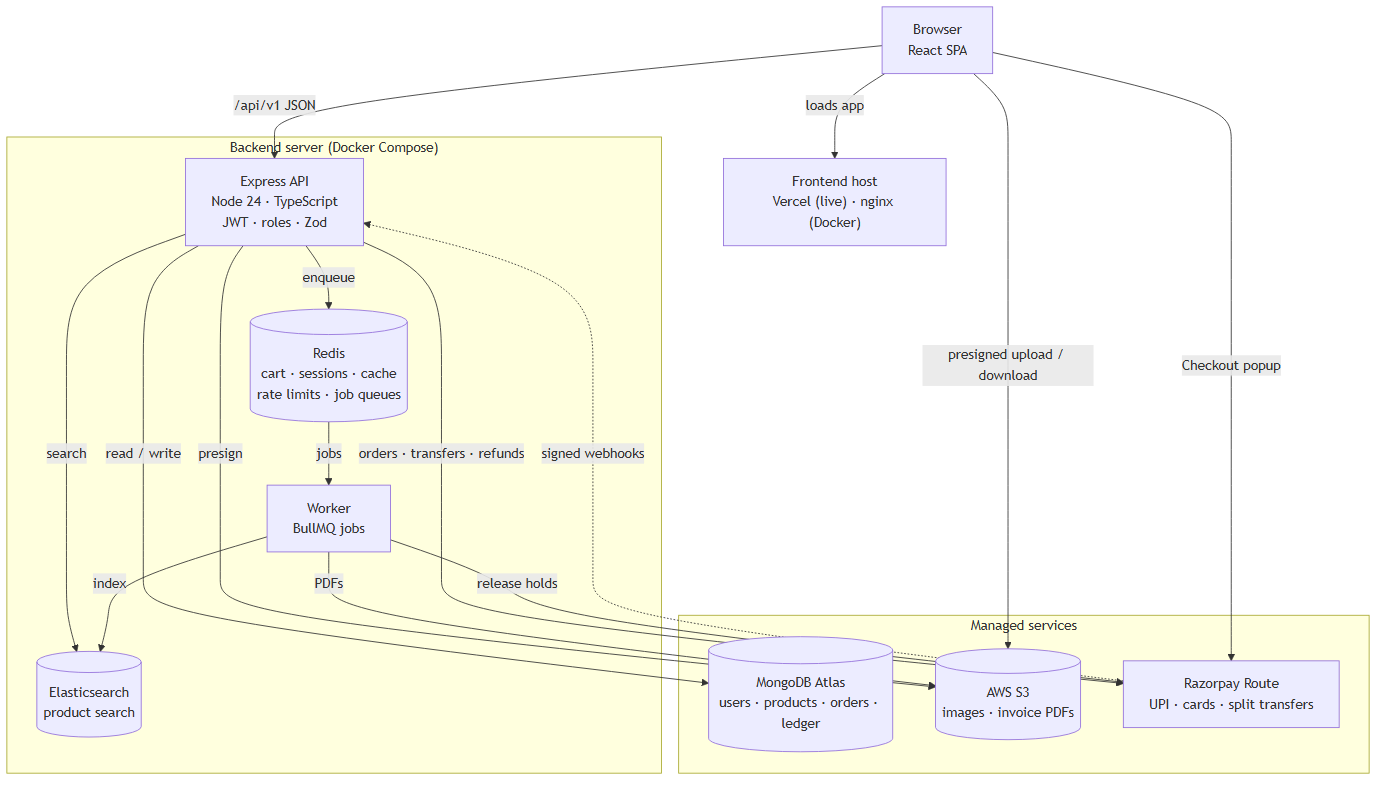
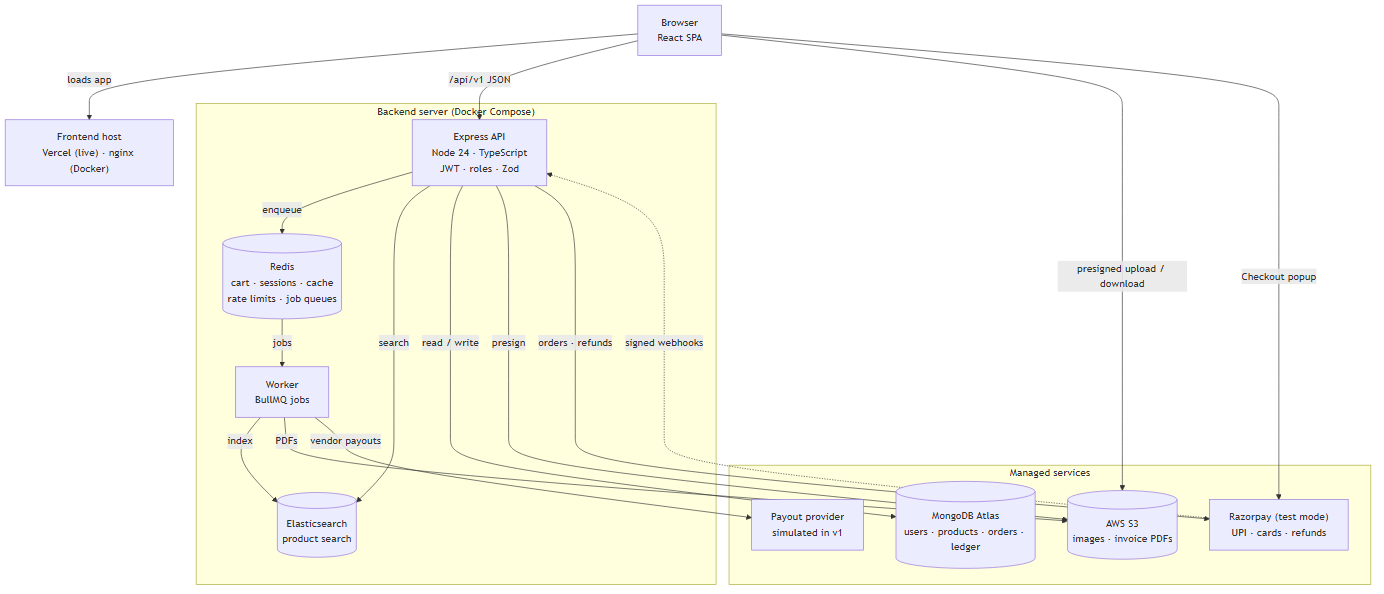
docs(fs01): real Razorpay test payments with our own split and escrow engine
Razorpay Route now needs ₹40 lakh+ business turnover (RBI rules since
Sep 2025) and RazorpayX accepts registered businesses only, so neither is
available for this project. Collection stays real Razorpay test mode
(Orders, Checkout, signed webhooks, refunds); the split, commission and
escrow (held -> released on delivery -> paid out) live in our own ledger,
and vendor payouts go through a PayoutProvider with a simulated driver.

Update the design decision, PRD, app flow, database schema, API list,
docs 01-05, README, diagrams and the Day 6 tracker to match.

diff --git a/FS-01/docs/specs/01-prd.md b/FS-01/docs/specs/01-prd.md
@@ -23,10 +23,11 @@ The platform must then **split that single payment** between the vendors and kee
 | Vendors apply, get approved and sell their own products with photos | Live money (Razorpay **test mode** only) |
 | Customers find products fast with typo-tolerant search, filters and sorting | Shipping-carrier integration (vendor types the tracking number) |
 | One checkout for items from several vendors, paid with UPI or card | Product variants (size/colour); each variant is its own product |
-| Every vendor is paid their share minus commission, **only after delivery** | Returns after delivery, chat between buyer and seller |
+| Every vendor earns their share minus commission, **released only after delivery** | Returns after delivery, chat between buyer and seller |
 | Each order moves through placed → packed → shipped → delivered | Native mobile apps, multiple currencies (INR only) |
 | Reviews, coupons, PDF invoices and an admin analytics dashboard | Recommendation engine, ads for sellers |
 | Frontend and backend deployed separately and reachable 24/7 | Multi-region hosting |
+| | Real bank transfers to vendors: Razorpay Route needs ₹40 lakh+ business turnover and RazorpayX needs a registered business, so v1 simulates the final payout |
 
 ## 3. Personas
 
@@ -50,10 +51,10 @@ The platform must then **split that single payment** between the vendors and kee
 
 ### Vendor
 9. As a vendor I can **apply** with my store details and see whether I'm approved.
-10. Once approved I can set up **payouts** (Razorpay linked account).
+10. Once approved I can add my **payout details** (account holder, bank account, IFSC; only the last 4 digits are kept).
 11. I can **create, edit, hide and delete** my products and **upload photos**.
 12. I see only **my** part of each order and move it to **packed, shipped** (with tracking number) and **delivered**.
-13. I see my **earnings**: held, released and settled amounts, and the commission taken.
+13. I see my **earnings**: held, released and paid-out amounts, and the commission taken.
 14. I can create **coupons** for my own store.
 
 ### Admin
@@ -73,7 +74,8 @@ The platform must then **split that single payment** between the vendors and kee
 | Cart | Redis; guest carts merge on login; prices and stock re-checked at checkout |
 | Orders | One **order** per checkout, split into one **sub-order per vendor**; stock reserved at checkout and released if unpaid in 15 min |
 | Lifecycle | Sub-order `placed → packed → shipped → delivered`, or `cancelled` before shipping; every change recorded with who and when |
-| Payments | Razorpay order for the full amount; signature-verified webhooks, idempotent; one **on-hold transfer per vendor** (their share minus commission), released on delivery, reversed on cancellation |
+| Payments | **Real Razorpay test mode** for collection: a Razorpay order for the full amount, Checkout popup (UPI, cards), signature check, idempotent signed webhooks, partial **refunds** per sub-order |
+| Split and escrow | Each vendor's share (minus commission) is **held** in the platform ledger, **released** when their sub-order is delivered and **reversed** (with a Razorpay refund) if cancelled. Released amounts are **paid out** through a `PayoutProvider`; v1 uses a clearly labelled **simulated payout** (see [design decision 1](../04-design-decisions.md#1-real-razorpay-payments-our-own-split-and-escrow-engine)) |
 | Commission | Basis points (1000 = 10%); vendor rate overrides category rate, which overrides the platform default |
 | Coupons | Platform or vendor scope; percent (with cap) or flat; min order, date window, total and per-user limits |
 | Reviews | Only after delivery, one per customer per product; updates the product's average rating (and search) |
@@ -85,7 +87,7 @@ The platform must then **split that single payment** between the vendors and kee
 | Area | Target |
 |---|---|
 | Performance | Search p95 < 200 ms with 20 000 products; cached product page p95 < 50 ms |
-| Correctness | No overselling under parallel checkouts; money sums always balance (customer paid = vendor transfers + platform share) |
+| Correctness | No overselling under parallel checkouts; money sums always balance (customer paid = vendor shares + platform share) |
 | Security | OWASP basics: hashed passwords, rate-limited login, role and ownership checks, input validation, signed webhooks, private S3 bucket |
 | Availability | Live demo answers 24/7 without cold starts |
 | Quality | Lint + tests in CI on every push; Docker smoke test |
@@ -93,6 +95,6 @@ The platform must then **split that single payment** between the vendors and kee
 
 ## 7. Success metrics for the demo
 
-- A full journey works end to end: vendor approved → product listed → found in search → bought together with another vendor's product → paid by UPI → shipped → delivered → vendor's money released → reviewed.
-- Ledger check: for every paid order, `customer paid = Σ vendor transfers + platform commission − platform coupon discount`.
+- A full journey works end to end: vendor approved → product listed → found in search → bought together with another vendor's product → paid by UPI → shipped → delivered → vendor's share released and paid out → reviewed.
+- Ledger check: for every paid order, `customer paid = Σ vendor shares + platform commission − platform coupon discount`.
 - CI green; test and performance numbers recorded in the docs.

diff --git a/FS-01/docs/04-design-decisions.md b/FS-01/docs/04-design-decisions.md
@@ -4,29 +4,40 @@
 
 Each decision lists what was chosen, the alternatives, and why.
 
-## 1. Razorpay Route for split payments (not Stripe Connect)
+## 1. Real Razorpay payments, our own split and escrow engine
 
-- **Chosen:** Razorpay Route in test mode. The customer pays the full amount once; each vendor has a **linked account**; after the payment, the platform creates one **transfer** per vendor for their share minus commission. The commission simply stays with the platform.
-- **Alternative:** Stripe Connect. The brief allows either, but new Stripe Connect platforms in India are invite-only, and Stripe has no UPI.
-- **Why:** INR and UPI out of the box, and Route has **on-hold transfers**, which gives us escrow for free (see 3).
-- **Risk handled:** Route has to be enabled on the Razorpay account, and Razorpay has no official mock server. All payment code goes through a small `PaymentProvider` interface with two drivers, `razorpay` and `mock`. The mock signs its webhooks exactly like Razorpay, so the app, the tests and CI work without any account.
+- **Chosen:**
+  - **Collecting money is real Razorpay (test mode):** a Razorpay order for the full amount, the Checkout popup (UPI, cards, netbanking), payment-signature checks, signed webhooks and partial refunds.
+  - **Splitting it is our own code:** commission per sub-order, each vendor's share recorded in an append-only ledger, held until delivery (see 3).
+  - **The final transfer to a vendor's bank** goes through a `PayoutProvider` interface. v1 ships one driver, `mock`, which behaves like a real payouts API (reference ids, signed `payout.processed` webhooks, occasional failures in tests) and is labelled **"simulated payout"** everywhere it shows.
+- **What we tried first:**
+
+  | Option | Result |
+  |---|---|
+  | **Razorpay Route** (linked accounts + on-hold transfers) | Since September 2025 it requires **₹40 lakh+ domestic turnover** (or ₹5 lakh+ export) proven with GST-3B returns, plus a payer-payee declaration ([Route FAQs](https://razorpay.com/docs/payments/route/faqs)). Not possible for a student project, even in test mode. |
+  | **RazorpayX payouts** (Banking+) | "We only support registered businesses", test mode included. |
+  | **Stripe Connect** | New Stripe accounts in India are invite-only; opening one as another country would mean misstating details. |
+  | **Another gateway's split product** | Not in the required stack, and the same RBI rules apply in production. |
+
+- **Why this design:** everything a customer touches is genuine Razorpay, and everything that makes a *marketplace* (commission, per-vendor shares, escrow, refunds, payouts, reconciliation) is built and tested in our code instead of hidden inside a gateway. A business that qualifies can add a `route` or `razorpayx` payout driver without touching orders, the ledger or the UI.
+- **Offline and in CI:** Razorpay has no official mock server, so payment collection also has a `PaymentProvider` with `razorpay` and `mock` drivers. The mock signs webhooks exactly like Razorpay, so the app, the tests and CI run without any account; `PAYMENT_PROVIDER=razorpay` switches to real test mode.
 
 ## 2. One order, one sub-order per vendor
 
 - **Chosen:** checkout creates an `order` (what the customer paid) and one `subOrder` per vendor (what each vendor ships and is paid for).
 - **Alternative:** one order with a status per line item.
-- **Why:** each vendor packs and ships separately, so each needs its own status, tracking number, invoice, transfer and refund. A sub-order gives each vendor exactly the part they're allowed to see.
+- **Why:** each vendor packs and ships separately, so each needs its own status, tracking number, invoice, payout and refund. A sub-order gives each vendor exactly the part they're allowed to see.
 
-## 3. Pay vendors on delivery
+## 3. Pay vendors on delivery (escrow)
 
-- **Chosen:** each vendor's transfer is created **on hold** when the payment is captured, and released when that sub-order is delivered. Cancelling before shipping reverses the transfer and refunds that part.
-- **Why:** protects customers (no money leaves for an order that never ships) and shows the order lifecycle driving the money, the core of a marketplace.
+- **Chosen:** when the payment is captured, each vendor's share (minus commission) is **held** in the ledger. When that sub-order is delivered it is **released** and a `payout` job pays it out. Cancelling before shipping **reverses** the hold and refunds that part of the payment through Razorpay.
+- **Why:** protects customers (no money goes to a vendor for an order that never ships) and shows the order lifecycle driving the money, the core of a marketplace.
 
 ## 4. Money as integer paise, rates as basis points
 
 - **Chosen:** ₹499.00 is stored as `49900`; 10% commission is `1000` bp; rounding happens once, in one place.
 - **Why:** floating-point maths loses paise (`0.1 + 0.2 ≠ 0.3`), and across thousands of splits that would make the ledger stop balancing. Razorpay also expects paise.
-- **Rule:** every paid order must satisfy `customer paid = Σ vendor transfers + platform share`; a test checks it for every coupon scenario.
+- **Rule:** every paid order must satisfy `customer paid = Σ vendor shares + platform share`; a test checks it for every coupon scenario.
 
 ## 5. MongoDB as a replica set, with transactions at checkout
 

diff --git a/FS-01/docs/specs/03-database-schema.md b/FS-01/docs/specs/03-database-schema.md
@@ -35,7 +35,7 @@ Indexes: `email` unique.
 | status | `pending` \| `approved` \| `rejected` \| `suspended` | |
 | rejectionReason | string | Shown to the vendor |
 | commissionRateBp | int \| null | Overrides the category rate when set |
-| payout | object | `{ provider: "razorpay" \| "mock", linkedAccountId, status: "not_started" \| "pending" \| "active" }` |
+| payout | object | `{ accountHolder, bankLast4, ifsc, provider: "mock", beneficiaryRef, status: "not_started" \| "active" }`. The full account number goes only to the payout provider, never into our database |
 | ratingAvg, ratingCount | number | Average over the vendor's product reviews |
 | approvedAt, approvedBy | date, ObjectId | Audit |
 
@@ -101,11 +101,13 @@ Indexes: `orderNumber` unique, `{ customerId, createdAt: -1 }`, `payment.provide
 | status | `placed` \| `packed` \| `shipped` \| `delivered` \| `cancelled` | |
 | statusHistory | array | `{ status, at, byUserId, byRole, note }` |
 | tracking | object | `{ carrier, number }`, required for `shipped` |
-| transfer | object | `{ id, amount, status: "pending" \| "on_hold" \| "released" \| "reversed" \| "failed", releasedAt }` |
-| refund | object \| null | `{ id, amount, at }` |
+| payout | object | `{ amount, status: "held" \| "released" \| "paid" \| "reversed" \| "failed", provider, providerRef, releasedAt, paidAt }`. `amount` = `vendorNet` |
+| refund | object \| null | `{ id, amount, at }`; `id` is the Razorpay refund id |
 | deliveredAt, cancelledAt | date | |
 
-Indexes: `{ vendorId, status, createdAt: -1 }`, `orderId`, `transfer.id` (sparse).
+Indexes: `{ vendorId, status, createdAt: -1 }`, `orderId`, `{ "payout.status", vendorId }`, `payout.providerRef` (sparse).
+
+**Escrow states:** `held` (paid, not yet delivered) → `released` (delivered) → `paid` (payout done), or `held` → `reversed` (cancelled and refunded). A failed payout stays `failed` and is retried by the job.
 
 ### Money rules
 
@@ -113,15 +115,16 @@ Indexes: `{ vendorId, status, createdAt: -1 }`, `orderId`, `transfer.id` (sparse
 - **Platform coupon** (the platform pays for it): split across sub-orders in proportion to `itemsTotal` (remainder paise go to the largest). Commission is on `itemsTotal`, so `vendorNet = itemsTotal − commission`; the vendor isn't affected by the discount. The discount is capped so the platform never pays out more than it collected (`Σ vendorNet ≤ grandTotal`).
 - **Vendor coupon** (the vendor pays for it): applies only to that vendor's sub-order. Commission is on `payable`, so `vendorNet = payable − commission`.
 - **Check on every paid order:** `grandTotal = Σ vendorNet + platform share`, where `platform share = Σ commission − platform discount`. A test enforces this for every scenario.
+- **Cancelling one sub-order** refunds its `payable` through Razorpay and reverses its `vendorNet` hold; the platform gives up that sub-order's commission and, for a platform coupon, absorbs its discount share.
 
 ## ledgerEntries (append-only)
 
 | Field | Type | Notes |
 |---|---|---|
 | orderId, subOrderId, vendorId | ObjectId | `subOrderId`, `vendorId` empty for order-level entries |
-| type | `payment` \| `commission` \| `transfer_hold` \| `transfer_release` \| `transfer_reversal` \| `refund` \| `platform_discount` | |
+| type | `payment` \| `commission` \| `vendor_hold` \| `vendor_release` \| `vendor_reversal` \| `payout` \| `refund` \| `platform_discount` | |
 | amount | int (paise) | Positive = money in for the platform |
-| providerRef | string | Razorpay payment / transfer / refund id |
+| providerRef | string | Razorpay payment or refund id, or the payout reference |
 | note | string | |
 
 Never updated or deleted; corrections are new entries. Powers vendor earnings and admin analytics.
@@ -166,7 +169,7 @@ Indexes: `{ productId, userId }` **unique**, `{ productId, status, createdAt: -1
 |---|---|---|
 | provider | `razorpay` \| `mock` | |
 | eventId | string | **unique** with provider, so a repeated delivery is ignored |
-| type | string | e.g. `payment.captured`, `transfer.processed` |
+| type | string | e.g. `payment.captured`, `payment.failed`, `refund.processed`; `payout.processed` from the payout provider |
 | status | `processed` \| `ignored` \| `failed` | |
 | receivedAt, processedAt | date | |
 

diff --git a/FS-01/docs/guides/DAY_PLAN.md b/FS-01/docs/guides/DAY_PLAN.md
@@ -14,9 +14,9 @@ Dates assume you start **Tue 3 Nov 2026** and work every day; shift them if you 
 - [x] 🛠 `docker-compose.yml`: MongoDB (replica set), Redis, Elasticsearch, S3Mock, api, worker, web
 - [x] 🛠 `.env.example`, `/health` endpoint, CI `.github/workflows/fs01-ci.yml` (lint + test)
 - [x] 🛠 Docs 01–05 drafted (overview, features & roles, architecture, design decisions, data model)
-- [ ] 👤 Create Razorpay account, check that **Route** shows in test mode (ask support if not)
+- [x] 👤 Create Razorpay account (test mode). Route and RazorpayX checked: not available to unregistered businesses → own split engine + simulated payouts (design decision 1)
 - [ ] 👤 Try to create FS-01's own Oracle A1 VM (2 OCPU / 12 GB, its own network). Retry daily until it works
-- [ ] ✅ `docker compose up` → all services healthy, CI green
+- [x] ✅ `docker compose up` → all services healthy, CI green
 
 ## Day 2 · Wed 4 Nov · Authentication & roles (brief step 2)
 - [ ] 🛠 Register, login, refresh, logout, me, change password
@@ -56,15 +56,15 @@ Dates assume you start **Tue 3 Nov 2026** and work every day; shift them if you 
 - [ ] 👤 Oracle VM retry
 - [ ] ✅ Cart with items from 2 vendors → 1 order, 2 sub-orders
 
-## Day 6 · Sun 8 Nov · Razorpay split payments (brief step 6)
-- [ ] 🛠 Payment interface with `razorpay` and `mock` drivers
+## Day 6 · Sun 8 Nov · Razorpay payments + split engine (brief step 6)
+- [ ] 🛠 `PaymentProvider` (`razorpay`, `mock`) and `PayoutProvider` (`mock`, labelled "simulated payout")
 - [ ] 🛠 Razorpay Order at checkout, Checkout popup (UPI `success@razorpay`), signature check
 - [ ] 🛠 Webhook: signature verified, safe against repeats and out-of-order events
-- [ ] 🛠 After payment: one on-hold transfer per vendor (subtotal − commission), ledger entries
-- [ ] 🛠 Delivered → release that vendor's transfer; cancel → reverse transfer + refund
-- [ ] 🛠 Vendor payout setup (Route linked account); tests for split maths and webhooks; doc 09 (payments)
+- [ ] 🛠 After payment: ledger entries; each vendor's share (subtotal − commission) **held**
+- [ ] 🛠 Delivered → release that share → payout job pays it out; cancel → reverse the hold + real Razorpay test refund
+- [ ] 🛠 Vendor payout details (only last 4 digits stored); tests for split maths, escrow states and webhooks; doc 09 (payments)
 - [ ] 👤 Add Razorpay test keys to `.env`; Oracle VM retry
-- [ ] ✅ Pay → 2 transfers on hold → deliver → released (mock and Razorpay test dashboard)
+- [ ] ✅ Pay with real Razorpay test UPI → 2 vendor shares held → deliver → released → paid out (simulated); payment and refund visible in the Razorpay test dashboard
 
 ## Day 7 · Mon 9 Nov · Reviews, coupons, invoices (brief step 7, part 1)
 - [ ] 🛠 Reviews only from buyers whose order was delivered; rating updates product + search

diff --git a/FS-01/docs/03-architecture.md b/FS-01/docs/03-architecture.md
@@ -2,7 +2,7 @@
 
 [← Features and roles](02-features-and-roles.md) · [Index](README.md) · [Next: Design decisions →](04-design-decisions.md)
 
-The browser loads the React app from a static host and calls one Express API. The API keeps its data in MongoDB, uses Redis for carts, sessions, caching and job queues, and asks Elasticsearch for search results. Slow work (search indexing, invoice PDFs, payouts, expiring reservations) runs in a separate worker. Files never pass through the API: the browser uploads and downloads them straight from S3 with short-lived presigned URLs. Razorpay takes the payment and tells the API about it with signed webhooks.
+The browser loads the React app from a static host and calls one Express API. The API keeps its data in MongoDB, uses Redis for carts, sessions, caching and job queues, and asks Elasticsearch for search results. Slow work (search indexing, invoice PDFs, payouts, expiring reservations) runs in a separate worker. Files never pass through the API: the browser uploads and downloads them straight from S3 with short-lived presigned URLs. Razorpay takes the payment and tells the API about it with signed webhooks; the split between vendors, the hold until delivery and the payouts happen in ShopSphere's own ledger.
 
 ![Architecture](assets/architecture.png)
 
@@ -19,7 +19,8 @@ Source: [`assets/architecture.mmd`](assets/architecture.mmd).
 | **Redis** | Carts, refresh sessions, product cache, rate-limit counters, job queues |
 | **Elasticsearch** | Search index of active products; rebuilt from MongoDB at any time with `npm run reindex` |
 | **S3** | Product images (public-read through the app) and invoices (private) |
-| **Razorpay Route** | Collects the payment; holds, releases and reverses per-vendor transfers |
+| **Razorpay** (test mode) | Collects the payment (Checkout popup), sends signed webhooks, issues refunds |
+| **Payout provider** | Pays released vendor shares; v1 uses the built-in simulated driver |
 
 ## A request, step by step
 
@@ -62,6 +63,6 @@ FS-01/
 | MongoDB | container, single-node replica set | MongoDB Atlas M0 |
 | Redis, Elasticsearch | containers | containers on the same VM |
 | S3 | Adobe S3Mock container | AWS S3, `ap-south-1` |
-| Payments | `mock` driver | Razorpay test mode |
+| Payments | `mock` driver | Razorpay test mode; payouts simulated |
 
 The same images and code run in both; only environment variables change.

diff --git a/FS-01/docs/specs/04-api-list.md b/FS-01/docs/specs/04-api-list.md
@@ -35,7 +35,7 @@ The **Day** column says when each endpoint is built; ✓ means it exists now.
 | POST | `/vendors/apply` | V (any status) | Submit or resubmit the store application | 3 |
 | GET | `/vendors/me` | V (any status) | My store, status, payout status | 3 |
 | PATCH | `/vendors/me` | V | Edit store details | 3 |
-| POST | `/vendors/me/payout` | V | Create the Razorpay linked account | 6 |
+| PUT | `/vendors/me/payout` | V | Save payout details (account holder, account number, IFSC); registers the beneficiary with the payout provider and keeps only the last 4 digits | 6 |
 | GET | `/stores/:slug` | P | Public store page with products | 3 |
 | GET | `/admin/vendors?status=` | A | List applications and vendors | 3 |
 | POST | `/admin/vendors/:id/approve` · `/reject` · `/suspend` · `/restore` | A | Change vendor status | 3 |
@@ -76,7 +76,8 @@ The **Day** column says when each endpoint is built; ✓ means it exists now.
 | POST · DELETE | `/cart/coupon` | P | Apply or remove a coupon | 7 |
 | POST | `/checkout` | C | Create order + sub-orders, reserve stock, create the Razorpay order | 5 / 6 |
 | POST | `/checkout/verify` | C | Verify the payment signature returned by the popup | 6 |
-| POST | `/webhooks/razorpay` | P (signed) | Payment, transfer and refund events; HMAC-verified, idempotent | 6 |
+| POST | `/webhooks/razorpay` | P (signed) | Payment and refund events; HMAC-verified, idempotent | 6 |
+| POST | `/webhooks/payouts` | P (signed) | Payout events from the payout provider (the simulated one in v1); HMAC-verified, idempotent | 6 |
 
 Guests are identified by an httpOnly `guest_id` cookie; their cart merges into the account on login.
 
@@ -109,7 +110,7 @@ Guests are identified by an httpOnly `guest_id` cookie; their cart merges into t
 
 | Method | Path | Role | Purpose | Day |
 |---|---|---|---|---|
-| GET | `/vendor/earnings?from=&to=` | V | Held, released and settled totals, commission, per sub-order list | 8 |
+| GET | `/vendor/earnings?from=&to=` | V | Held, released and paid-out totals, commission, per sub-order list | 8 |
 | GET | `/admin/analytics?from=&to=` | A | GMV, commission, orders by status, daily sales, top vendors and products | 8 |
 | POST | `/admin/sub-orders/:subId/refund` | A | Cancel and refund a part of an order | 8 |
 

diff --git a/FS-01/docs/specs/02-app-flow.md b/FS-01/docs/specs/02-app-flow.md
@@ -19,13 +19,13 @@ flowchart LR
   B --> C{Admin review}
   C -- reject --> D[Rejected, with reason<br/>can re-apply]
   C -- approve --> E[Approved]
-  E --> F[Payout setup<br/>Razorpay linked account]
+  E --> F[Payout details<br/>bank account + IFSC]
   F --> G[List products]
   E -. admin suspends .-> H[Suspended<br/>products hidden]
   H -. admin restores .-> E
 ```
 
-A vendor can list products as soon as they are approved, but **orders for them can't be paid out until payout setup is done**, so the dashboard keeps reminding them.
+A vendor can list products as soon as they are approved, but **released earnings can't be paid out until payout details are added**, so the dashboard keeps reminding them.
 
 ## 3. Buying journey
 
@@ -46,10 +46,11 @@ sequenceDiagram
   RZ-->>UI: payment id + signature
   UI->>API: POST /checkout/verify
   RZ-->>API: Webhook payment.captured (signed)
-  API->>API: Mark paid (once), ledger entries
-  API->>RZ: Transfer to A and to B, both on hold
+  API->>API: Mark paid (once); ledger: payment, commission,<br/>vendor A share held, vendor B share held
   API-->>UI: Order confirmed
 ```
+
+The payment is real Razorpay (test mode). Vendor shares are held in the platform's own ledger, not at Razorpay (see [design decision 1](../04-design-decisions.md#1-real-razorpay-payments-our-own-split-and-escrow-engine)).
 
 If the customer never pays, the reservation expires after 15 minutes, the stock goes back and the order becomes `expired`.
 
@@ -69,9 +70,9 @@ stateDiagram-v2
 
 | Event | Money |
 |---|---|
-| `placed` | Vendor's transfer created **on hold** |
-| `delivered` | Hold **released**; vendor sees it as released, then settled |
-| `cancelled` | Transfer **reversed**, that part of the payment **refunded** to the customer, stock returned |
+| `placed` | Vendor's share (minus commission) **held** in the ledger |
+| `delivered` | Share **released**; a `payout` job pays it out through the `PayoutProvider` (simulated in v1) and it shows as **paid out** |
+| `cancelled` | Held share **reversed**, that part of the payment **refunded** to the customer through Razorpay, stock returned |
 
 Only allowed moves are accepted; for example a shipped sub-order can't be cancelled, and nothing moves backwards.
 

diff --git a/FS-01/docs/05-data-model.md b/FS-01/docs/05-data-model.md
@@ -18,7 +18,7 @@ Source: [`assets/erd.mmd`](assets/erd.mmd).
 | `categories` | Two-level category tree with optional commission rates | `parentId → categories` |
 | `products` | Listings with price, stock, images, ratings | `vendorId → vendors`, `categoryId → categories` |
 | `orders` | What the customer bought and paid, with item snapshots | `customerId → users` |
-| `subOrders` | Each vendor's part of an order: status, tracking, commission, transfer | `orderId → orders`, `vendorId → vendors` |
+| `subOrders` | Each vendor's part of an order: status, tracking, commission, payout (held → released → paid) | `orderId → orders`, `vendorId → vendors` |
 | `ledgerEntries` | Append-only record of every money movement | order, sub-order, vendor |
 | `reviews` | Ratings from customers who received the product | product, user, sub-order |
 | `coupons`, `couponRedemptions` | Discount codes and who used them on which order | vendor (for vendor coupons), order |
@@ -43,7 +43,7 @@ Customer buys a ₹1 000 phone case from vendor A (10% commission) and a ₹500 
 | discount (platform coupon, split by value) | 10 000 | 6 667 | 3 333 |
 | payable (customer paid) | **140 000** | 93 333 | 46 667 |
 | commission (on itemsTotal) | | 10 000 | 4 000 |
-| vendorNet (transfer) | | **90 000** | **46 000** |
+| vendorNet (held, then paid out) | | **90 000** | **46 000** |
 
 Platform keeps 140 000 − 90 000 − 46 000 = **4 000 paise (₹40)** = commission ₹140 − coupon ₹100. The ledger balances.
 

diff --git a/FS-01/README.md b/FS-01/README.md
@@ -3,7 +3,7 @@
 [![FS-01 CI](https://github.com/Adarsh619/Rout_Adarsh_Pradhan_Capstone_Projects/actions/workflows/fs01-ci.yml/badge.svg?branch=main)](https://github.com/Adarsh619/Rout_Adarsh_Pradhan_Capstone_Projects/actions/workflows/fs01-ci.yml)
 
 An Amazon-style marketplace where **many vendors sell**, **customers buy from several of them in one checkout**, and the platform
-**splits each payment** between the vendors and keeps a **commission** (Razorpay Route, test mode).
+**splits each payment** between the vendors and keeps a **commission** (Razorpay test mode for payments; vendor payouts simulated).
 
 | Layer | Tech |
 |---|---|
@@ -11,7 +11,7 @@ An Amazon-style marketplace where **many vendors sell**, **customers buy from se
 | API + worker | Node.js 24 · Express 5 · TypeScript · Zod · BullMQ |
 | Data | MongoDB 7.0 (replica set, transactions) · Redis 7.4 · Elasticsearch 8.19 |
 | Files | AWS S3 (Adobe S3Mock locally) |
-| Payments | Razorpay Route (test mode), with a built-in mock that needs no account |
+| Payments | Razorpay test mode (UPI, cards, webhooks, refunds) + own split-and-escrow ledger; built-in mock needs no account |
 | Infra | Docker Compose · nginx · GitHub Actions |
 
 **Status:** Day 1 of 10. Specs, architecture, database schema and API list are done; the stack runs end to end with health checks. Progress is tracked in the [10-day build tracker](docs/guides/DAY_PLAN.md).

diff --git a/FS-01/docs/README.md b/FS-01/docs/README.md
@@ -10,12 +10,12 @@ Read the files in order, or jump to the topic you need. Topics without a link ar
 | 01 | [Overview](01-overview.md) | Problem, tech stack, scope against the brief | ✓ |
 | 02 | [Features and roles](02-features-and-roles.md) | What customers, vendors and admins can do | ✓ |
 | 03 | [System architecture](03-architecture.md) | Components, request flow, diagram, local vs live | ✓ |
-| 04 | [Design decisions](04-design-decisions.md) | Why Razorpay Route, sub-orders, paise, Elasticsearch sync, S3 uploads | ✓ |
+| 04 | [Design decisions](04-design-decisions.md) | Razorpay + own split engine (and why not Route), sub-orders, escrow, paise, Elasticsearch sync, S3 uploads | ✓ |
 | 05 | [Data model](05-data-model.md) | Collections, relationships, ER diagram, money rules | ✓ |
 | 06 | API reference | Endpoints, auth, errors | Day 3 |
 | 07 | Frontend | React structure, pages, state | Day 8 |
 | 08 | Background jobs | BullMQ queues, retries, schedules | Day 4 |
-| 09 | Payments | Razorpay Route flow, webhooks, mock mode | Day 6 |
+| 09 | Payments | Razorpay checkout and webhooks, split and escrow ledger, payouts, mock mode | Day 6 |
 | 10 | Security | Auth, sessions, roles, validation, uploads | Day 2 |
 | 11 | DevOps | Docker Compose, CI/CD, live hosting | Day 9 |
 | 12 | Testing and performance | Test counts, coverage, load-test numbers | Day 9 |

diff --git a/FS-01/docs/01-overview.md b/FS-01/docs/01-overview.md
@@ -22,7 +22,7 @@ ShopSphere builds all three sides, with real search, a real order lifecycle and 
 | Search | Elasticsearch 8.19 | Typo-tolerant full-text search, filters, facets, sorting |
 | Cache, sessions, queues | Redis 7.4 · BullMQ | Carts, refresh sessions, caching, rate limits, background jobs |
 | Files | AWS S3 (Adobe S3Mock locally) | Product images and invoice PDFs through presigned URLs |
-| Payments | Razorpay Route (test mode) · built-in mock | INR + UPI; one payment split into per-vendor transfers |
+| Payments | Razorpay test mode (Orders, Checkout, webhooks, refunds) · own split-and-escrow engine · simulated vendor payouts | INR + UPI; one payment split into per-vendor shares, released on delivery |
 | Infra | Docker Compose · nginx · GitHub Actions | One-command local stack; CI on every push |
 | Live hosting | Vercel (frontend) · Oracle Cloud Always Free VM (backend) · MongoDB Atlas · AWS S3 | Frontend and backend deployed separately; always on |
 

diff --git a/FS-01/docs/02-features-and-roles.md b/FS-01/docs/02-features-and-roles.md
@@ -24,10 +24,10 @@ Every account has exactly one role. Sign-up creates **customers** or **vendors**
 - PDF invoice per vendor; reviews after delivery.
 
 ### Vendor
-- Store application, then admin approval; payout setup as a Razorpay linked account.
+- Store application, then admin approval; payout details (bank account + IFSC, only the last 4 digits stored).
 - Products: create, edit, hide, delete; up to 6 photos uploaded straight to S3.
 - Orders: only their own part of each order; mark packed, shipped (with tracking number) and delivered.
-- Earnings: held (until delivery), released and settled, after commission.
+- Earnings: held (until delivery), released and paid out, after commission. Payouts are simulated in v1 and labelled so.
 - Coupons for their own store.
 
 ### Admin
